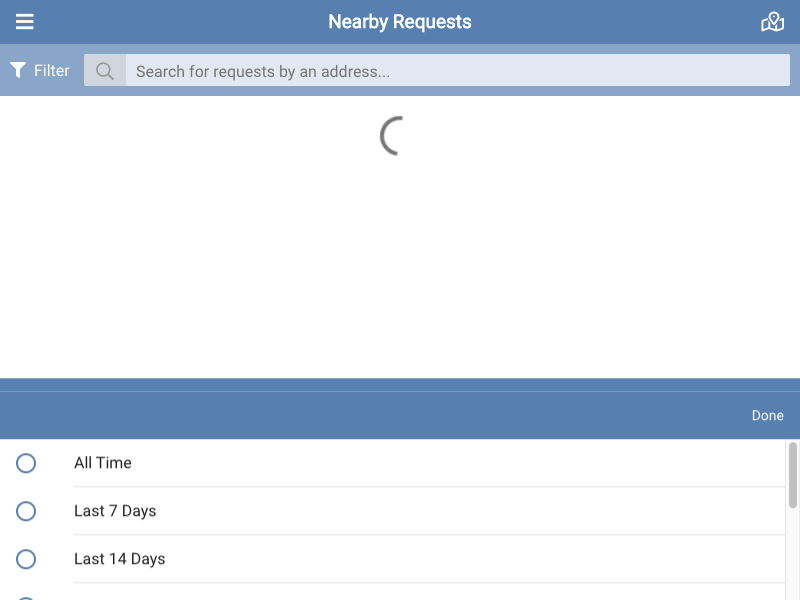
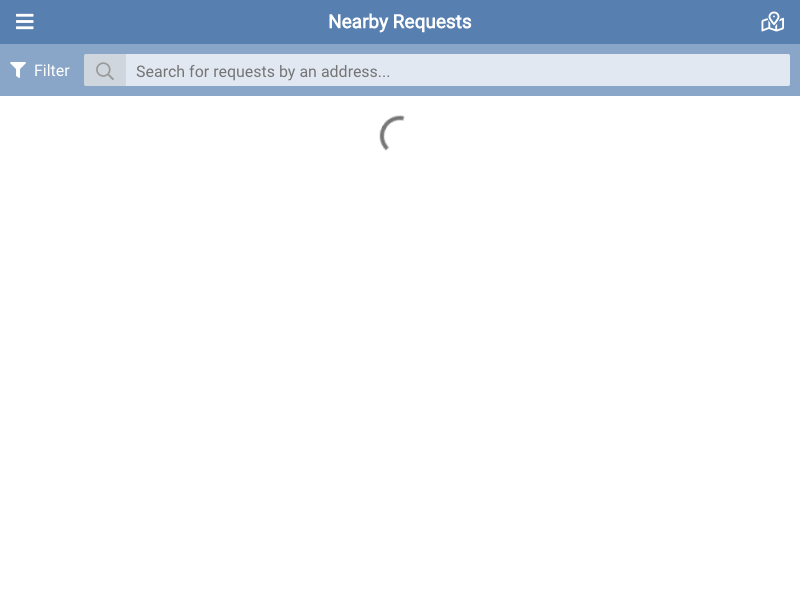
now have the ability to filter for the types of issues I want

diff --git a/slcgov.js b/slcgov.js
@@ -27,33 +27,24 @@ await page.evaluate(() => {
    document.querySelector('input[value="-1"').click();
    // Select Biking Issues 1005971
    document.querySelector('input[value="1005971"').click();
-   // document.querySelector('input[value="0"').click();
-    // document.querySelector('button#save-filters-button').click();
+   document.querySelector('a.link.sheet-close').click();
 })
-
-// await page.$('input[value="0"]');
-await page.$('a.link.sheet-close ');
-await page.select('#dateFilter');
-await page.evaluate(() => {
-   // document.querySelector('input[value="0"').click();
-    // document.querySelector('button#save-filters-button').click();
-})
+await page.waitForSelector('input[type="checkbox"]')
+await page.$$eval("input[type='checkbox']", checks => checks.forEach(c => c.checked = false));
 
 await page.evaluate(() => {
-    document.querySelector('a.link.sheet-close').click();
-    document.querySelector('#dateFilter').click();
-     document.querySelector('input[value="0"').click();
-    document.querySelector('button#save-filters-button').click();
+  let statuses = document.querySelector('#viewFiltersModal > div.view.view-init.popover-view > div.list.no-hairlines.no-hairlines-between.modal-body.input-container > ul > li:nth-child(2) > div > div.item-input-wrap > a > div > div > div.item-after');
+  statuses.innerHTML = "Submitted, Received, In Process"
+
 })
 
+await page.select('#dateFilter', '0')
 
-  await page.screenshot({path: 'doesthisowrk.png'})
+await page.evaluate(() => {
+  document.querySelector('button#save-filters-button').click();
+})
 
-
-// await page.select('#requestTypeFilter', 'Biking Issues')
-
-
-        // const sw = await page.select('save-filters-button', 'sidewalks')
+await page.screenshot({path: 'doesthisowrk.png'})
 
   } catch (e) {
       console.log(e);
